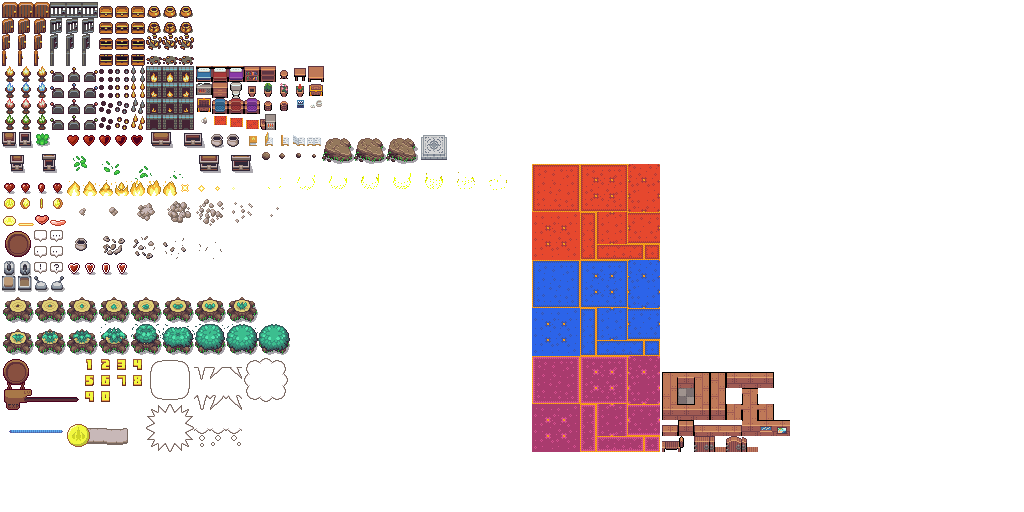
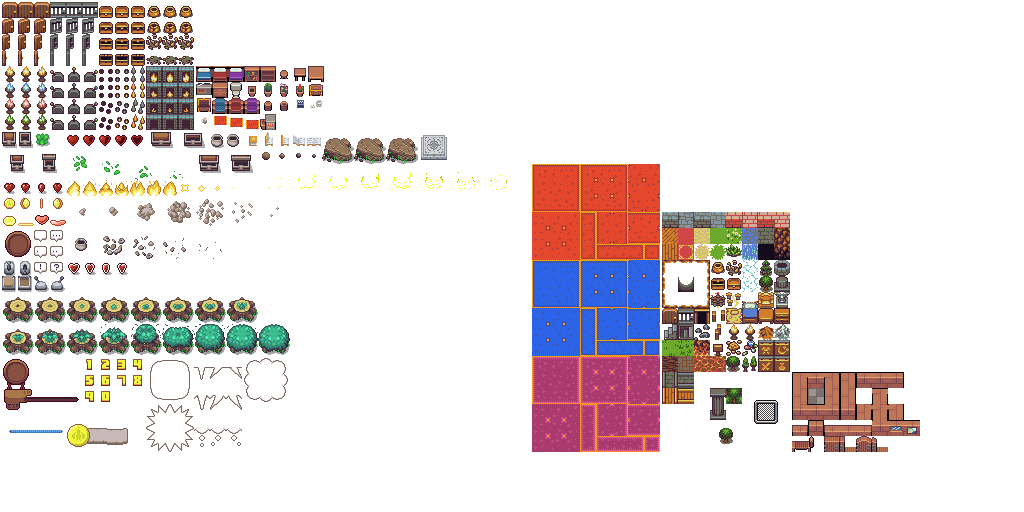
Adding background garden

Changed region(s): [[0.625, 0.4062, 0.9062, 0.9062]]

diff --git a/core/src/de/tum/cit/fop/maze/MazeMap.java b/core/src/de/tum/cit/fop/maze/MazeMap.java
@@ -1,6 +1,7 @@
 package de.tum.cit.fop.maze;
 
 import com.badlogic.gdx.Gdx;
+import com.badlogic.gdx.graphics.Texture;
 import com.badlogic.gdx.graphics.g2d.SpriteBatch;
 import com.badlogic.gdx.graphics.g2d.TextureAtlas;
 import com.badlogic.gdx.graphics.g2d.TextureRegion;
@@ -17,7 +18,10 @@ public class MazeMap {
     private final TextureRegion[][] furnitureTiles;
     private final TextureRegion[][] thingTiles;
     private final TextureRegion[][] objectTiles;
-    private final Map<String, GameObject> gameObjects = new HashMap<>();
+    private final TextureRegion[][] grasTiles;
+    private final TextureRegion tree1Texture;
+    private final TextureRegion tree2Texture;
+    private final Map<String, List<GameObject>> gameObjects = new HashMap<>();
     private int mazeWidth;
     private int mazeHeight;
     private String mapPath;
@@ -31,6 +35,8 @@ public class MazeMap {
     private final TextureRegion enemyTexture;
     private final TextureRegion keyTexture;
     private final TextureRegion pathTexture;
+    private final TextureRegion grasTexture;
+    private final TextureRegion wallDownTexture;
 
     public MazeMap(String mapPath, int windowWidth, int windowHeight, World world) {
         // Load textures
@@ -40,6 +46,7 @@ public class MazeMap {
         furnitureTiles = splitRegion(atlas.findRegion("furniture"), TILE_SIZE, TILE_SIZE);
         thingTiles = splitRegion(atlas.findRegion("things"), TILE_SIZE, TILE_SIZE);
         objectTiles = splitRegion(atlas.findRegion("objects"), TILE_SIZE, TILE_SIZE);
+        grasTiles = splitRegion(atlas.findRegion("basictiles"), TILE_SIZE, TILE_SIZE);
         this.world = world;
 
         // Assign specific textures
@@ -50,7 +57,10 @@ public class MazeMap {
         enemyTexture = thingTiles[3][11]; // Example: Enemy texture
         keyTexture = thingTiles[0][7]; // Example: Key texture
         pathTexture = carpetTiles[2][2]; // CarpetTiles specifically for paths
-
+        grasTexture = grasTiles[8][0]; // Example: Gras texture
+        tree1Texture = grasTiles[3][6]; // Example: Tree texture
+        tree2Texture = grasTiles[4][6]; // Example: Tree texture
+        wallDownTexture = wallTiles[0][3];
         // Load the maze from the properties file
         loadMaze(mapPath, windowWidth, windowHeight);
     }
@@ -118,35 +128,35 @@ public class MazeMap {
                         // System.out.println("Creating object at (" + x + ", " + y + ") with type: " + type); // Debugging object creation
 
                         switch (type) {
-                            case 0 -> gameObjects.put(key, new Wall(x, y, TILE_SIZE, wallTexture, world));
+                            case 0 -> addGameObject(key, new Wall(x, y, TILE_SIZE, wallTexture, world));
                             case 1 -> {
                                 if (!hasEntry && !isCorner(x, y)) {
-                                    gameObjects.put(key, new EntryPoint(x, y, TILE_SIZE, entryTexture));
+                                    addGameObject(key, new EntryPoint(x, y, TILE_SIZE, entryTexture));
                                     hasEntry = true;
                                     entryX = x;
                                     entryY = y;
                                 } else {
-                                    gameObjects.put(key, new Wall(x, y, TILE_SIZE, wallTexture, world));
+                                    addGameObject(key, new Wall(x, y, TILE_SIZE, wallTexture, world));
                                 }
                             }
                             case 2 -> {
                                 if (!isCorner(x, y)) {
-                                    gameObjects.put(key, new ExitPoint(x, y, TILE_SIZE, exitTexture));
+                                    addGameObject(key, new ExitPoint(x, y, TILE_SIZE, exitTexture));
                                     hasExit = true;
                                 }
                             }
-                            case 3 -> gameObjects.put(key, new Trap(x, y, TILE_SIZE, trapTexture));
-                            case 4 -> gameObjects.put(key, new Enemy(x, y, TILE_SIZE, enemyTexture));
-                            case 5 -> gameObjects.put(key, new Key(x, y, TILE_SIZE, keyTexture));
+                            case 3 -> addGameObject(key, new Trap(x, y, TILE_SIZE, trapTexture));
+                            case 4 -> addGameObject(key, new Enemy(x, y, TILE_SIZE, enemyTexture));
+                            case 5 -> addGameObject(key, new Key(x, y, TILE_SIZE, keyTexture));
                         }
                     } else {
                         // Default to path if undefined
-                        gameObjects.put(key, new Path(x, y, TILE_SIZE, pathTexture));
+                        addGameObject(key, new Path(x, y, TILE_SIZE, pathTexture));
                     }
                 }
             }
 
-            addOuterWalls();
+            //addOuterWalls();
             if (!hasEntry) addEntryPoint();
             if (!hasExit) addExitPoint();
             if (!hasEntry) {
@@ -155,10 +165,40 @@ public class MazeMap {
             if (!hasExit) {
                 throw new IllegalStateException("No exit point defined in the maze file!");
             }
+            // Fill outside of the maze with grass
+            fillWithGrassAndTrees(windowWidth, windowHeight);
+
         } catch (Exception e) {
             e.printStackTrace();
         }
     }
+    private void addGameObject(String key, GameObject object) {
+        gameObjects.computeIfAbsent(key, k -> new ArrayList<>()).add(object);
+    }
+
+    private void fillWithGrassAndTrees(int windowWidth, int windowHeight) {
+        int gridWidth = windowWidth / TILE_SIZE;
+        int gridHeight = windowHeight / TILE_SIZE;
+
+        for (int y = -gridHeight; y < gridHeight; y++) {
+            for (int x = -gridWidth; x < gridWidth; x++) {
+
+                String key = x + "," + y;
+                if(x >= 0 && y >= 0 && x < mazeWidth && y < mazeHeight) {
+                    continue;
+                }
+                if (!gameObjects.containsKey(key)) {
+                    addGameObject(key, new Path(x, y, TILE_SIZE, grasTexture));//add grass
+                    if (Math.random() < 0.1) {
+                        addGameObject(key, new Path(x, y, TILE_SIZE, tree1Texture));//add first tree
+                    } else if (Math.random() < 0.05) {
+                        addGameObject(key, new Path(x, y, TILE_SIZE, tree2Texture));//add second tree
+                    }
+                }
+            }
+        }
+    }
+
 
     private void addOuterWalls() {
         for (int y = 0; y < mazeHeight; y++) {
@@ -166,7 +206,7 @@ public class MazeMap {
                 String key = x + "," + y;
                 if ((x == 0 || y == 0 || x == mazeWidth - 1 || y == mazeHeight - 1) &&
                         !(gameObjects.get(key) instanceof EntryPoint || gameObjects.get(key) instanceof ExitPoint)) {
-                    gameObjects.put(key, new Wall(x, y, TILE_SIZE, wallTexture, world));
+                    addGameObject(key, new Wall(x, y, TILE_SIZE, wallTexture, world));
                 }
             }
         }
@@ -179,7 +219,7 @@ public class MazeMap {
                 String belowKey = x + ",1";
                 // Ensure no wall directly below the entry point
                 if (!(gameObjects.get(belowKey) instanceof Wall)) {
-                    gameObjects.put(key, new EntryPoint(x, 0, TILE_SIZE, entryTexture));
+                    addGameObject(key, new EntryPoint(x, 0, TILE_SIZE, entryTexture));
                     entryX = x;
                     entryY = 0;
                     System.out.println("Added Entry Point at: " + key);
@@ -197,7 +237,7 @@ public class MazeMap {
                 String aboveKey = x + "," + (mazeHeight - 2);
                 // Ensure no wall directly above the exit point
                 if (!(gameObjects.get(aboveKey) instanceof Wall)) {
-                    gameObjects.put(key, new ExitPoint(x, mazeHeight - 1, TILE_SIZE, exitTexture));
+                    addGameObject(key, new ExitPoint(x, mazeHeight - 1, TILE_SIZE, exitTexture));
                     System.out.println("Added Exit Point at: " + key);
                     return;
                 }
@@ -234,7 +274,14 @@ public class MazeMap {
         this.mapPath = mapPath;
     }
 
-    public Map<String, GameObject> getGameObjects() {
+    public void render(SpriteBatch batch) {
+        for (List<GameObject> objects : gameObjects.values()) {
+            for (GameObject object : objects) {
+                object.render(batch);
+            }
+        }
+    }
+    public Map<String, List<GameObject>> getGameObjects() {
         return gameObjects;
     }
 
@@ -247,22 +294,20 @@ public class MazeMap {
     }
 
     private GameObject getGameObjectAt(int x, int y) {
-        for (GameObject object : gameObjects.values()) {
-            if (object.getX() == x && object.getY() == y) {
-                return object;
-            }
+        String key = x + "," + y;
+        List<GameObject> objects = gameObjects.get(key);
+        if (objects != null) {
+            return objects.stream().findFirst().orElse(null);
         }
-        // No object found at the given position
         return null;
     }
 
     public Array<Vector2> getExitPositions() {
         Array<Vector2> exitPositions = new Array<>();
-        for (GameObject object : gameObjects.values()) {
-            if (object instanceof ExitPoint) { // Ensure ExitPoint is a class or identify it correctly
-                exitPositions.add(new Vector2(object.getX(), object.getY()));
-            }
-        }
+        gameObjects.values().stream()
+                .flatMap(List::stream)
+                .filter(obj -> obj instanceof ExitPoint)
+                .forEach(obj -> exitPositions.add(new Vector2(obj.getX(), obj.getY())));
         return exitPositions;
     }
 }

diff --git a/core/src/de/tum/cit/fop/maze/GameScreen.java b/core/src/de/tum/cit/fop/maze/GameScreen.java
@@ -3,6 +3,7 @@ package de.tum.cit.fop.maze;
 import com.badlogic.gdx.Gdx;
 import com.badlogic.gdx.Input;
 import com.badlogic.gdx.Screen;
+import com.badlogic.gdx.graphics.GL20;
 import com.badlogic.gdx.graphics.OrthographicCamera;
 import com.badlogic.gdx.graphics.g2d.SpriteBatch;
 import com.badlogic.gdx.math.Matrix4;
@@ -17,6 +18,8 @@ import com.badlogic.gdx.utils.viewport.Viewport;
 import de.tum.cit.fop.maze.objects.EntryPoint;
 import de.tum.cit.fop.maze.objects.GameObject;
 import com.badlogic.gdx.physics.box2d.Box2DDebugRenderer;
+
+import java.util.List;
 
 
 public class GameScreen implements Screen {
@@ -111,21 +114,25 @@ public class GameScreen implements Screen {
     }
 
     private Vector2 findEntryPoint() {
-        for (GameObject object : mazeMap.getGameObjects().values()) {
-            if (object instanceof EntryPoint) {
-                int entryX = object.getX();
-                int entryY = object.getY();
+        for (List<GameObject> objects : mazeMap.getGameObjects().values()) {
+            for (GameObject object : objects) {
+                if (object instanceof EntryPoint) {
+                    int entryX = object.getX();
+                    int entryY = object.getY();
 
-                // Check if the entry position overlaps a wall
-                if (mazeMap.isWall(entryX, entryY)) {
-                    throw new IllegalStateException("Entry point overlaps a wall at: " + entryX + ", " + entryY);
+                    // Check if the entry position overlaps a wall
+                    if (mazeMap.isWall(entryX, entryY)) {
+                        throw new IllegalStateException("Entry point overlaps a wall at: " + entryX + ", " + entryY);
+                    }
+
+                    return new Vector2(entryX, entryY);
                 }
-
-                return new Vector2(entryX, entryY);
             }
         }
         throw new IllegalStateException("No EntryPoint found in the maze!");
     }
+
+
 
     @Override
     public void render(float delta) {
@@ -147,10 +154,14 @@ public class GameScreen implements Screen {
 
         // Render the maze
         batch.setProjectionMatrix(camera.combined);
+
         batch.begin();
-        for (GameObject object : mazeMap.getGameObjects().values()) {
-            object.render(batch);
+        for (List<GameObject> objectList : mazeMap.getGameObjects().values()) {
+            for (GameObject object : objectList) {
+                object.render(batch);
+            }
         }
+
         player.render(batch);
         batch.end();
 
